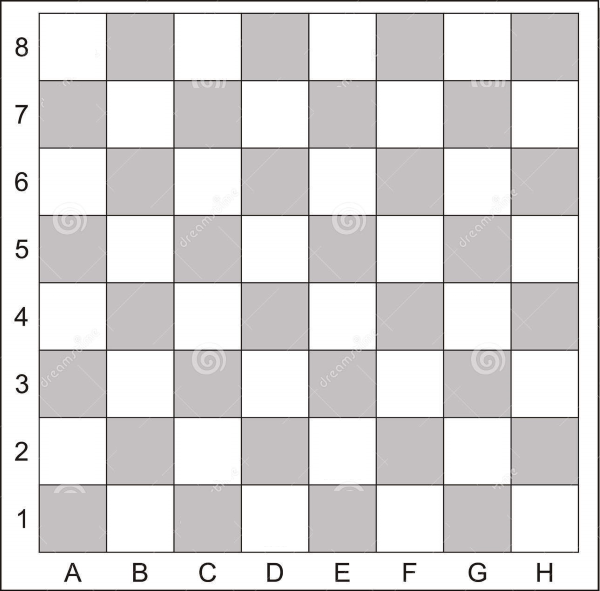
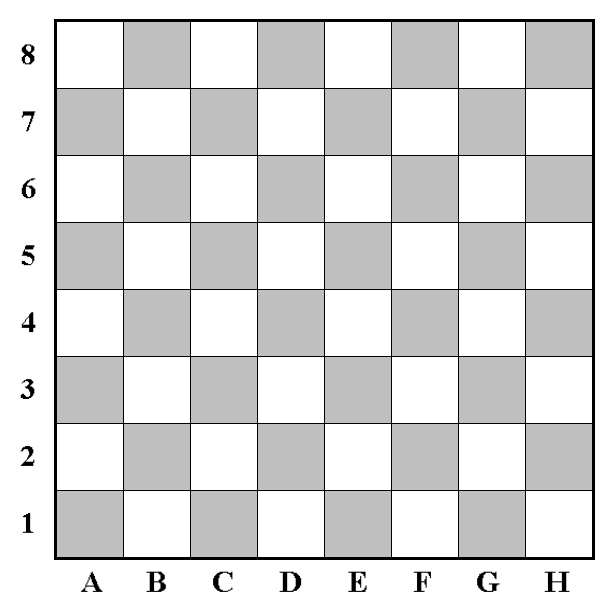
Better graphics

Changed region(s): [[0.0, 0.0, 1.0, 1.0]]

diff --git a/src/main/java/grenf/gui/Game.java b/src/main/java/grenf/gui/Game.java
@@ -1,6 +1,7 @@
 package grenf.gui;
 
 import chess.Board;
+import chess.piece.Piece;
 import chess.piece.Position;
 import grenf.gui.graphics.ImageLoader;
 import grenf.gui.graphics.Sprite;
@@ -42,12 +43,12 @@ public class Game extends AnimationTimer {
   public void handle(long now) {
     spriteBoard.render(gc);
     if (selectedSprite != null) {
-      selectedSprite.render(gc);
       if (!potentialMoveSprites.isEmpty()) {
         for (int i = 0; i < potentialMoveSprites.size(); i++) {
           potentialMoveSprites.get(i).render(gc);
         }
       }
+      selectedSprite.render(gc);
     }
   }
 
@@ -92,7 +93,40 @@ public class Game extends AnimationTimer {
   }
 
   private void makeMove(Position moveTarget) {
-    //Board.MoveResult result = board.tryMove(moveStart, moveTarget);
+    Board.MoveResult result = board.tryMove(moveStart, moveTarget);
+    if (result == Board.MoveResult.OK) {
+      Board.CheckType checkType = board.getCheck(board.getCurrentColor());
+      if (checkType == Board.CheckType.CHECKMATE || checkType == Board.CheckType.STALEMATE) {
+        endGame(checkType);
+      } else if (checkType == Board.CheckType.CHECK) {
+        warnForCheck();
+      }
 
+      refreshSpriteBoard();
+    } else if (result == Board.MoveResult.PROMOTION_REQUIRED) {
+      promptPromotion();
+    }
+  }
+
+  private void warnForCheck() {
+    if (board.getCurrentColor() == Piece.Color.WHITE) {
+      System.out.println("White is checked");
+    } else {
+      System.out.println("Black is checked");
+    }
+  }
+
+  private void endGame(Board.CheckType checkType) {
+    if (board.getCurrentColor() == Piece.Color.WHITE) {
+      System.out.println("Black won");
+    } else {
+      System.out.println("White won");
+    }
+    System.exit(0);
+  }
+
+  private void promptPromotion() {
+    System.out.println("PANIC! PROMOTION REQUIERD!");
+    System.exit(0);
   }
 }

diff --git a/src/main/java/grenf/gui/graphics/SpriteBoard.java b/src/main/java/grenf/gui/graphics/SpriteBoard.java
@@ -7,8 +7,8 @@ import javafx.scene.canvas.GraphicsContext;
 
 public class SpriteBoard {
 
-  private static final int BOARD_START_OFFSET_X = 39;
-  private static final int BOARD_START_OFFSET_Y = 13;
+  private static final int BOARD_START_OFFSET_X = 56;
+  private static final int BOARD_START_OFFSET_Y = 21;
   private static final int PIECE_SPRITE_DIMENSION = 67;
 
   private Sprite board;

diff --git a/src/main/java/grenf/gui/Main.java b/src/main/java/grenf/gui/Main.java
@@ -12,8 +12,8 @@ import javafx.stage.Stage;
 public class Main extends Application {
 
   public static Game game;
-  public static final int WIDTH = 600;
-  public static final int HEIGHT = 630;
+  public static final int WIDTH = 850;
+  public static final int HEIGHT = 650;
   public static final String TITLE = "cnol-chess grenf-gui";
 
   public static void main(String[] args) {
